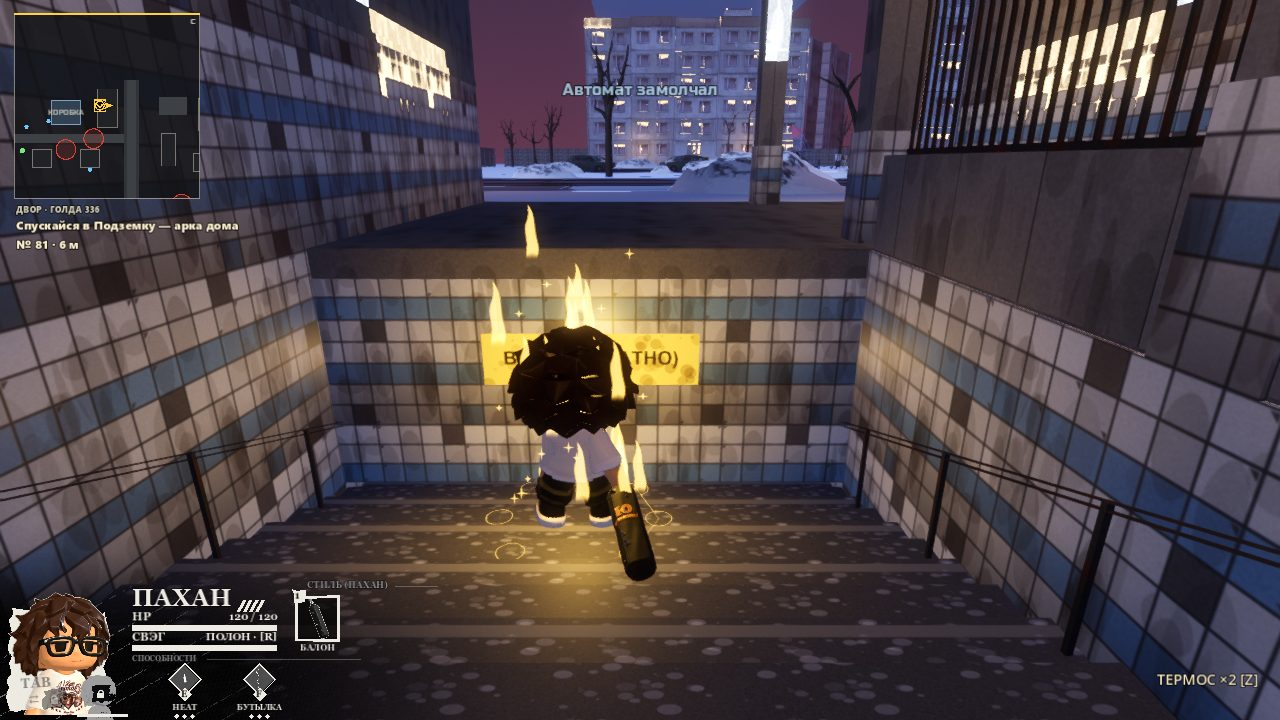
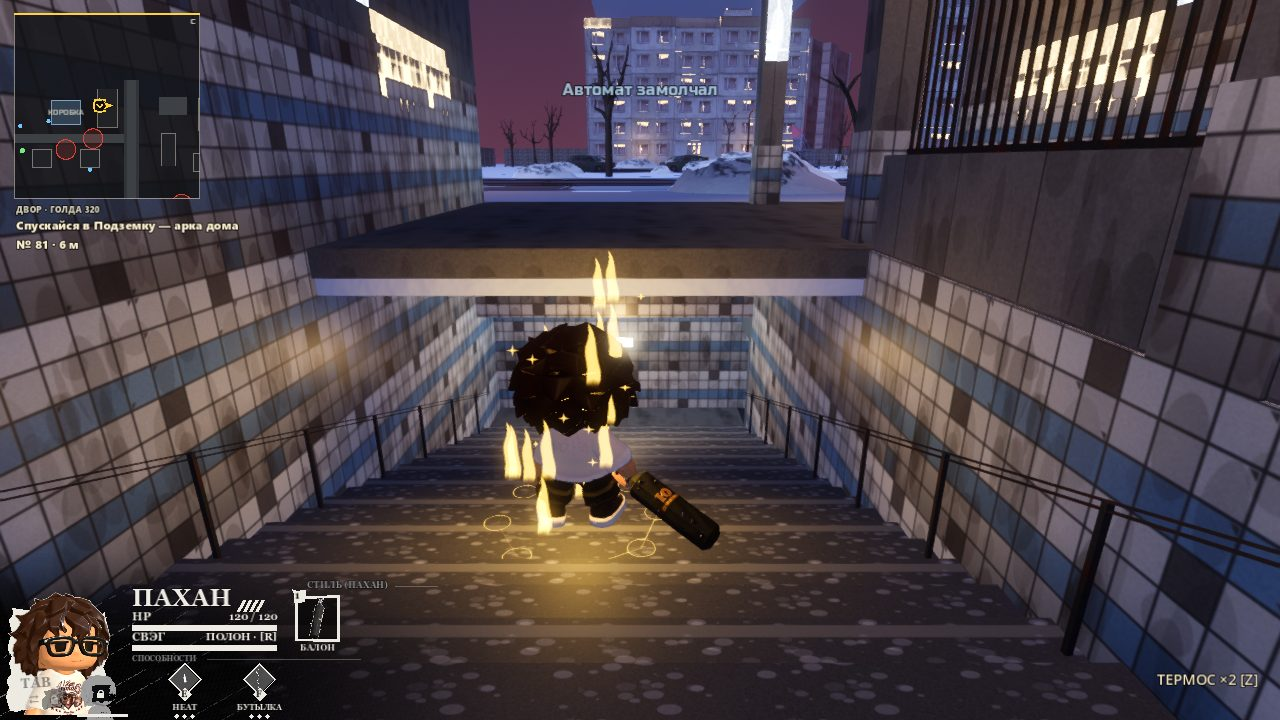
ДВОР: низ спуска под аркой — модель и преграды для камеры
- dvor_arch.py: потолок только над площадкой, лоб перекрытия и табличка — над входом на площадку, коридор модели убран (строится в игре)
- преграды потолка и лба перекрытия: камера остаётся под перекрытием
- кадры спуска пересняты

diff --git a/tools/blender/dvor_arch.py b/tools/blender/dvor_arch.py
@@ -121,13 +121,12 @@ for i in range(N):
 BZ = -5.0
 L.box('floor', SX0, AX, SY1, Y1 - 0.05, BZ - 0.3, BZ)
 L.box('tile', SX0, AX, Y1 - 0.05, Y1 + 0.25, BZ, BZ + 2.7)                 # торцевая стена
-L.box('conc', SX0, AX, SY1 - 6.0, Y1 + 0.25, BZ + 2.7, BZ + 3.0)           # потолок низа
-L.box('tile', SX1, AX, SY1 - 0.3, SY1, BZ, BZ + 2.7)                       # стена коридора со стороны марша
-L.box('dark', AX - 0.05, AX + 0.3, SY1, Y1 - 0.05, BZ, BZ + 2.7)           # тёмный торец коридора — граница сцены
+L.box('conc', SX0, SX1, SY1 - 0.3, Y1 + 0.25, BZ + 2.7, BZ + 3.0)          # потолок только над площадкой: над маршем — высокая шахта до перекрытия проезда
+# коридор за проёмом площадки строится в игре (G67Dvor2._arch_house): он шире и длиннее, за его поворотом — стык с Подземкой
 # стены лестничной шахты
 L.box('tile', SX0 - 0.3, SX0 + 0.03, GY, Y1 + 0.25, BZ - 0.3, 0.0)
 L.box('tile', SX1 - 0.03, SX1 + 0.3, GY, SY1 - 0.3, BZ - 0.3, 0.0)
-L.box('tile', SX0, SX1, COVER - 0.02, COVER + 0.25, -2.75, -0.3)           # лоб перекрытия над маршем
+L.box('tile', SX0, SX1, SY1 - 0.32, SY1 - 0.07, BZ + 2.7, -0.3)            # лоб перекрытия над входом на площадку (над маршем прохода не перекрывает)
 # парапет и поручни
 L.box('conc', SX1, 1.25, GY, COVER, 0.0, 0.95)
 for hx in (SX0 + 0.12, SX1 - 0.12):
@@ -158,7 +157,7 @@ BOT = (-2.2, SY1 - 2.0)
 L.box('lamp', BOT[0] - 0.35, BOT[0] + 0.35, BOT[1] - 0.09, BOT[1] + 0.09, BZ + 2.58, BZ + 2.7)
 # таблички и ценники
 L.plate('s_perehod', (SX0 + SX1) / 2, GY - 0.09, 3.25, 3.4, 0.85)
-L.plate('s_vyhod', (SX0 + SX1) / 2, COVER - 0.04, -1.2, 2.4, 0.6)
+L.plate('s_vyhod', (SX0 + SX1) / 2, SY1 - 0.34, -1.2, 2.4, 0.6)
 L.plate('s_panika', GY + 3.0, SX0 + 0.04, -0.9, 1.6, 0.5, 1, 'y')
 L.plate('s_67', GY - 1.1, -AX + 0.04, 1.55, 0.5, 0.25, 1, 'y')
 L.plate('s_67', 1.0, Y0 + 0.21, 1.5, 0.44, 0.22)

diff --git a/godot/CHANGELOG.md b/godot/CHANGELOG.md
@@ -11,6 +11,7 @@
 - Названия событий заранее не показываются: «Загляни на рынок», «МЕСТНЫЙ — поговорить».
 - В Подземке карта переключается на её залы и тоннели.
 - Спуск в Подземку теперь без шторки: лестница под аркой, площадка, дверной проём, коридор. За поворотом район меняется, и Пахан выходит в такой же коридор Подземки. Обратно — тем же путём. На время постройки района экран темнеет на долю секунды.
+- Исправлен низ лестницы под аркой: потолок больше не висит над половиной марша, табличка «ВЫХОД (ПЛАТНО)» — над входом на площадку, камера остаётся под перекрытием и видит Пахана.
 - Под аркой двор звучит всё тише, из прохода тянет гулом Подземки; решётка звякает за спиной.
 - Мирные дают сдачи: мужики — сразу, бабки и тётки — со второго удара. От ответа можно уклониться или отойти.
 - Шестёрки и Семечники стали крепче: здоровья на 30 % больше, бьют на четверть сильнее.
